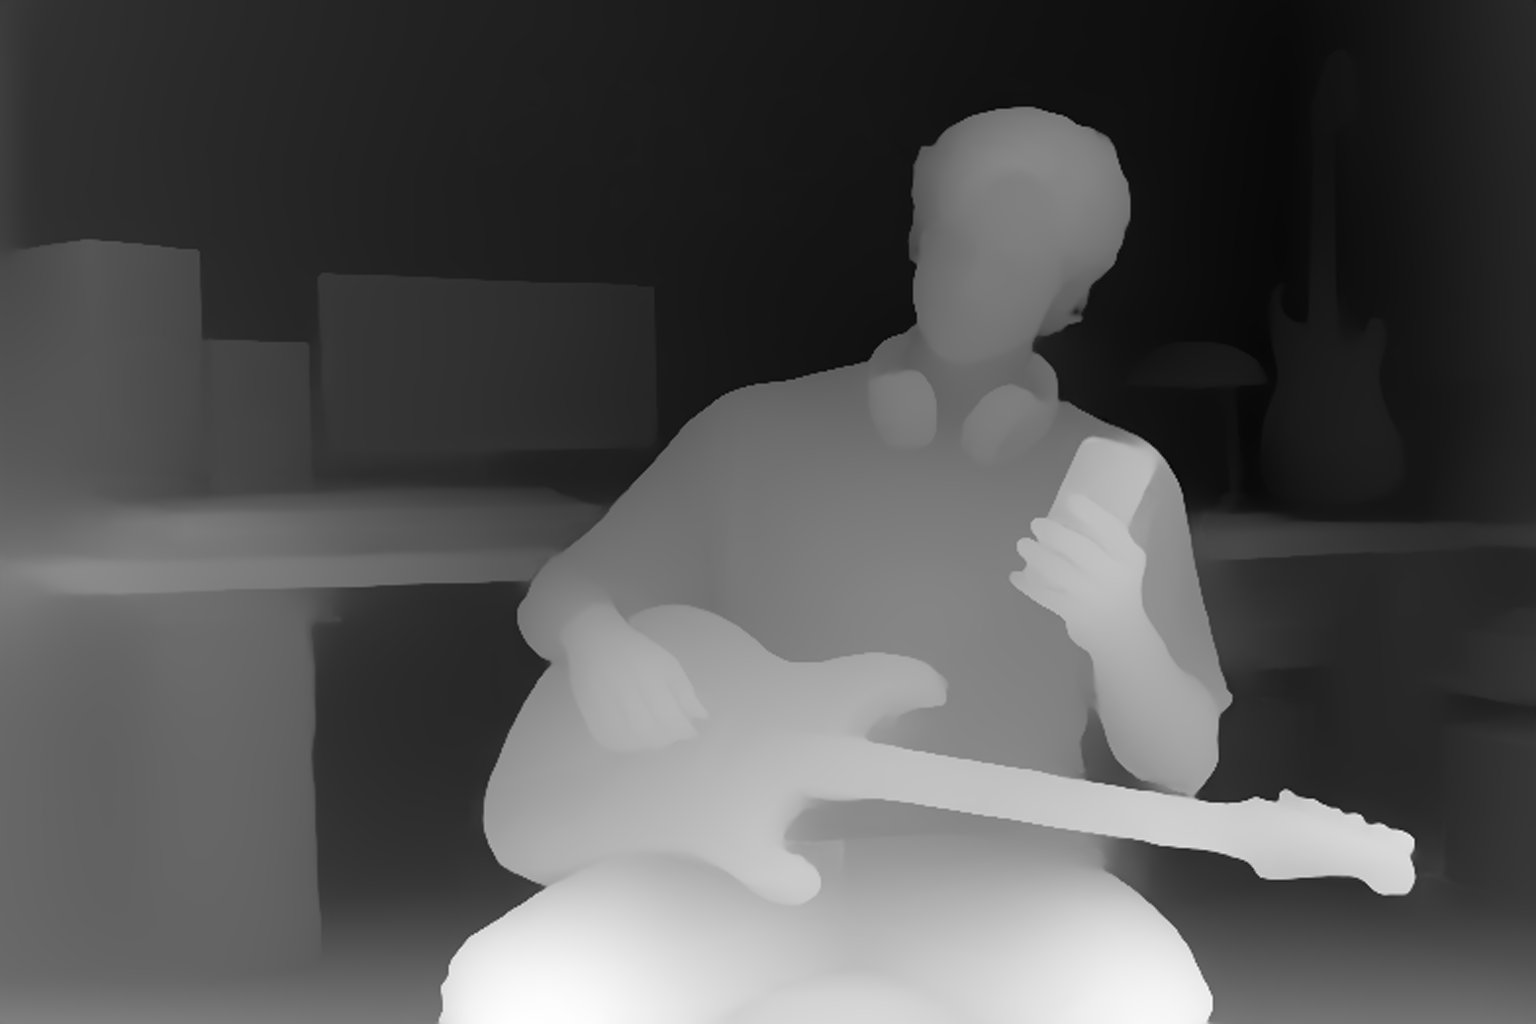
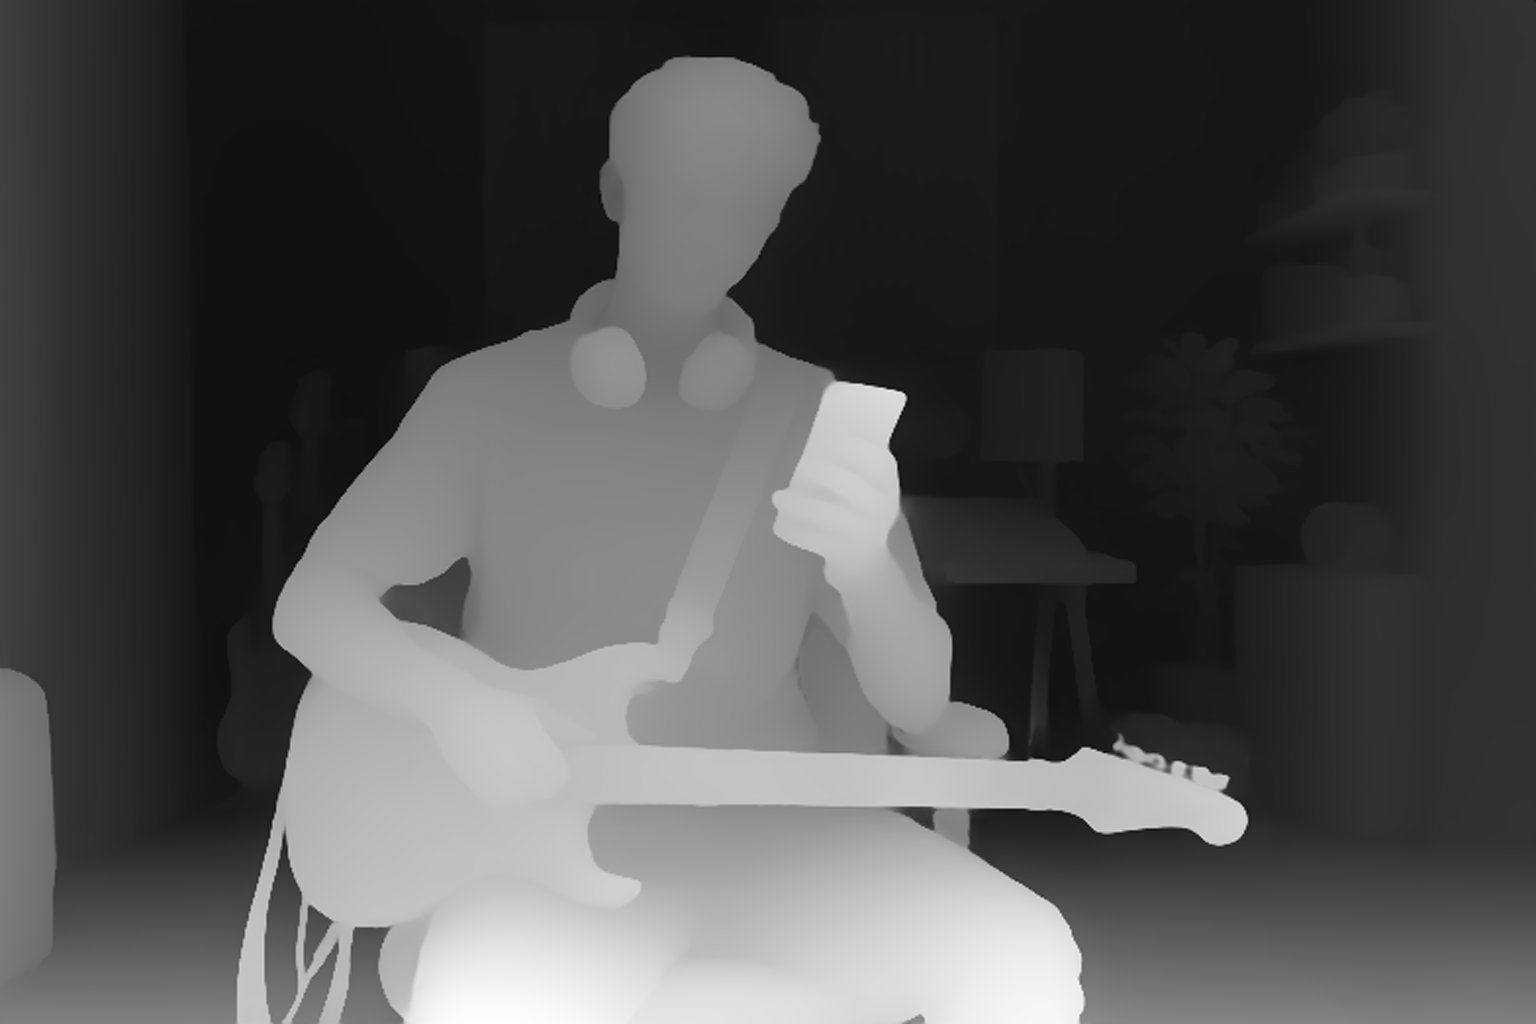
Splash v2 from client feedback: real home studio, photoreal model, sign on the left
- New plates: warm home studio after the client's reference, a photoreal model holding
  the guitar upright on a strap (v1 plates archived)
- Sign moved to the bare upper-left wall so it is never hidden behind him; brand red
  letters with a warm LED halo, and the preloader lockup turns red on its way there
- Light beats re-derived for the new room: LED strip first, then the spots
- Strings re-calibrated to the new fretboard; silver at rest, brand gold while ringing
- Chat anchored bottom-left so the sign stays clear
- Recorded guitar support: drop files + manifest.json in public/audio/guitar, synth
  stays as the fallback

diff --git a/src/components/sections/Session/PhotoStudio.tsx b/src/components/sections/Session/PhotoStudio.tsx
@@ -10,7 +10,14 @@ import { Line, useTexture } from "@react-three/drei";
 import * as THREE from "three";
 import type { Line2, LineSegments2 } from "three-stdlib";
 import { onPluck, playRiff, pluck, sampleAudio, unlockAudio } from "./audio";
-import { coverFit, dismissGuitarHint, session, SIGN_WORDMARK } from "./state";
+import {
+  coverFit,
+  dismissGuitarHint,
+  HERO_CENTER_X as HERO_CENTER_X_SHARED,
+  HERO_PHONE as HERO_PHONE_PX,
+  session,
+  SIGN_WORDMARK,
+} from "./state";
 
 const TAN = "#e7b47e";
 const IMG = { w: 1536, h: 1024 };
@@ -18,14 +25,17 @@ const IMG = { w: 1536, h: 1024 };
 // ---------------------------------------------------------------------------
 // Calibration (pixels in the 1536×1024 plates)
 // ---------------------------------------------------------------------------
-/** Six strings on 03-A-hero.png, low E (top) → high E, bridge → nut */
+/** Six strings on 03-A-hero.png, low E (top) → high E, bridge saddles → nut (measured from the fretboard) */
 const STRINGS = Array.from({ length: 6 }, (_, i) => ({
-  a: [700, 716 + i * 9.2] as [number, number],
-  b: [1290, 789 + i * 9.6] as [number, number],
+  a: [392, 743 + i * 10.8] as [number, number],
+  b: [1037, 763 + i * 7.8] as [number, number],
 }));
-const GUITAR_BODY = { x: 560, y: 640, w: 360, h: 250 };
-const HERO_PHONE = [1080, 515] as const;
-const HERO_CHEST = [900, 560] as const;
+const GUITAR_BODY = { x: 290, y: 650, w: 330, h: 260 };
+const HERO_PHONE = [HERO_PHONE_PX.x, HERO_PHONE_PX.y] as const;
+const HERO_CHEST = [680, 560] as const;
+/** Strings at rest read as bright silver; a plucked string flares to brand gold */
+const STRING_REST = new THREE.Color("#e9e6df");
+const STRING_LIT = new THREE.Color(TAN).multiplyScalar(1.5);
 
 /** Pointer pan, as a whole-frame camera drift (uv units at full deflection = PAN * (PAN_DEPTH - 0.5)) */
 const PAN = 0.05;
@@ -57,7 +67,7 @@ function useCover(centerX = 0.5) {
   const shift = THREE.MathUtils.clamp((0.5 - centerX) * w, -maxShift, maxShift);
   return { w, h, s, shift };
 }
-const HERO_CENTER_X = 0.6;
+const HERO_CENTER_X = HERO_CENTER_X_SHARED;
 
 // ---------------------------------------------------------------------------
 // Plate shader
@@ -261,7 +271,7 @@ function Studio() {
 }
 
 // ---------------------------------------------------------------------------
-// Playable strings drawn over the photo's strings (invisible at rest)
+// Playable strings drawn over the photo's strings: silver at rest, gold while ringing
 // ---------------------------------------------------------------------------
 const SEGMENTS = 40;
 /** The whole plate pans as one: strings use the same flat depth so they stay glued to the photo */
@@ -317,14 +327,15 @@ function Strings() {
     const pv = par.current.copy(frame.parallax).multiplyScalar(STRING_PARALLAX * (STRING_DEPTH - 0.5));
     g.scale.set(z, z, 1);
     g.position.set(shift + focusWorld[0] * (1 - z) - pv.x * w, focusWorld[1] * (1 - z) - pv.y * h, 0);
-    const visible = 1;
-
     for (let i = 0; i < 6; i++) {
       const line = lines.current[i];
       if (!line) continue;
       const e = energy.current[i];
-      const mat = line.material as THREE.Material & { opacity: number };
-      mat.opacity = Math.min(1, e * 2.5) * visible;
+      const glow = Math.min(1, e * 2.5);
+      const mat = line.material as THREE.Material & { opacity: number; color: THREE.Color; linewidth: number };
+      mat.opacity = 0.55 + 0.45 * glow;
+      mat.color.copy(STRING_REST).lerp(STRING_LIT, glow);
+      mat.linewidth = (1.1 - i * 0.08) * (1 + glow * 0.8);
       if (e < 0.004) continue;
       age.current[i] += dt;
       energy.current[i] = e * Math.exp(-dt * 2.6);
@@ -373,10 +384,10 @@ function Strings() {
             lines.current[i] = el;
           }}
           points={s.points}
-          color={new THREE.Color(TAN).multiplyScalar(1.6)}
-          lineWidth={1.6 - i * 0.12}
+          color={STRING_REST}
+          lineWidth={1.1 - i * 0.08}
           transparent
-          opacity={0}
+          opacity={0.55}
           frustumCulled={false}
           material-toneMapped={false}
           renderOrder={2}

diff --git a/src/components/sections/Session/audio.ts b/src/components/sections/Session/audio.ts
@@ -1,7 +1,7 @@
 "use client";
 
-// Plucked-string synth (Karplus-Strong) + analyser. No audio files needed: every note is
-// generated from a noise burst run through a tuned delay line, which is how a real string behaves.
+// Guitar audio. Uses real recordings when they are present in /public/audio/guitar/ (see SAMPLE_FILES),
+// and falls back to a plucked-string synth (Karplus-Strong) for anything that is missing.
 
 /** Open strings, low E → high E */
 export const STRING_FREQS = [82.41, 110, 146.83, 196, 246.94, 329.63];
@@ -13,6 +13,34 @@ let master: GainNode | null = null;
 let analyser: AnalyserNode | null = null;
 let muted = false;
 let riffing = false;
+
+/**
+ * Drop real recordings here (mp3/ogg/wav, short, dry, normalised) and list them in
+ * /public/audio/guitar/manifest.json as { "strings": ["0.mp3", …6 files, low E → high E], "riff": "riff.mp3" }.
+ */
+const SAMPLE_DIR = "/audio/guitar/";
+const samples: { strings: (AudioBuffer | null)[]; riff: AudioBuffer | null } = { strings: [], riff: null };
+let samplesRequested = false;
+
+async function loadSamples() {
+  if (samplesRequested || !ctx) return;
+  samplesRequested = true;
+  try {
+    const res = await fetch(SAMPLE_DIR + "manifest.json");
+    if (!res.ok) return; // no recordings yet: keep the synth
+    const manifest = (await res.json()) as { strings?: string[]; riff?: string };
+    const decode = async (file?: string) => {
+      if (!file || !ctx) return null;
+      const r = await fetch(SAMPLE_DIR + file);
+      return r.ok ? ctx.decodeAudioData(await r.arrayBuffer()) : null;
+    };
+    const [riff, ...strings] = await Promise.all([decode(manifest.riff), ...(manifest.strings ?? []).map(decode)]);
+    samples.riff = riff;
+    samples.strings = strings;
+  } catch {
+    // a broken file just means that note stays synthesised
+  }
+}
 
 const listeners = new Set<PluckListener>();
 const muteListeners = new Set<(muted: boolean) => void>();
@@ -42,6 +70,7 @@ export function unlockAudio() {
     master.connect(warmth).connect(analyser).connect(ctx.destination);
   }
   if (ctx.state === "suspended") void ctx.resume();
+  void loadSamples();
 }
 
 export function isMuted() {
@@ -128,8 +157,20 @@ function playNote(freq: number, when: number, velocity: number) {
 
 /** Pluck one open string (fret shifts the pitch in semitones). The string still vibrates when silent. */
 export function pluck(string: number, velocity = 1, fret = 0) {
-  if (ctx) playNote(STRING_FREQS[string] * 2 ** (fret / 12), 0, velocity);
+  const recorded = fret === 0 ? samples.strings[string] : null;
+  if (recorded) playBuffer(recorded, 0.9 * velocity);
+  else if (ctx) playNote(STRING_FREQS[string] * 2 ** (fret / 12), 0, velocity);
   emit(string);
+}
+
+function playBuffer(buffer: AudioBuffer, gainValue: number) {
+  if (!ctx || !master || !running()) return;
+  const src = ctx.createBufferSource();
+  src.buffer = buffer;
+  const gain = ctx.createGain();
+  gain.gain.value = gainValue;
+  src.connect(gain).connect(master);
+  src.start();
 }
 
 /** A short fingerpicked E-minor phrase that ends in a strum. */
@@ -137,6 +178,17 @@ export function playRiff() {
   if (riffing) return;
   unlockAudio();
   riffing = true;
+
+  // A recorded riff wins; the strings still shimmer along with it.
+  if (samples.riff && running()) {
+    playBuffer(samples.riff, 0.9);
+    const ms = samples.riff.duration * 1000;
+    for (let t = 0; t < ms - 200; t += 140) window.setTimeout(() => emit((t / 140) % 6 | 0), t);
+    window.setTimeout(() => {
+      riffing = false;
+    }, ms);
+    return;
+  }
 
   const step = 0.14;
   const pattern: [string: number, fret: number][] = [

diff --git a/src/components/sections/Session/state.ts b/src/components/sections/Session/state.ts
@@ -61,11 +61,11 @@ export function requestAutoPlay() {
 // ---------------------------------------------------------------------------
 export const PLATE = { w: 1536, h: 1024 };
 /** Image x (0–1) kept in view when a narrow screen crops the plate */
-export const HERO_CENTER_X = 0.6;
+export const HERO_CENTER_X = 0.5;
 /** Wall sign on the hero/clean plate, in plate pixels: the "auvox" wordmark box */
-export const SIGN_WORDMARK = { x: 505, y: 113, w: 448, h: 105 };
+export const SIGN_WORDMARK = { x: 200, y: 128, w: 270, h: 63 };
 /** Phone screen centre on the hero plate, in plate pixels */
-export const HERO_PHONE = { x: 1080, y: 515 };
+export const HERO_PHONE = { x: 850, y: 428 };
 
 /** Cover-fit of the plate inside a viewport: plate size in px and the horizontal shift that keeps `centerX` visible. */
 export function coverFit(vw: number, vh: number, centerX = HERO_CENTER_X) {

diff --git a/src/components/preloader/Preloader.tsx b/src/components/preloader/Preloader.tsx
@@ -13,6 +13,7 @@ const ONCE_PER_SESSION = false;
 const SESSION_KEY = "auvox:preloader-seen";
 
 const TAN = "#e7b47e";
+const RED = "#850909";
 const PEARL = "#f1ede9";
 const BLACK = "#000000";
 
@@ -243,6 +244,8 @@ export default function Preloader() {
             };
           };
           gsap.set(stage, { transformOrigin: `${(W * unit) / 2}px ${(WORDMARK.height * unit) / 2}px` });
+          // the sign on the wall is brand red, so the lockup takes that colour on the way
+          gsap.to(stage, { color: RED, duration: 1.1, ease: "power2.inOut", delay: 0.15 });
           const flight = { t: 0 };
           gsap.to(flight, {
             t: 1,

diff --git a/src/components/sections/Session/ChatOverlay.tsx b/src/components/sections/Session/ChatOverlay.tsx
@@ -115,7 +115,7 @@ export default function ChatOverlay() {
       {stage !== "idle" && (
         <div
           ref={panel}
-          className="absolute z-20 flex flex-col gap-3 text-pearl max-md:inset-x-4 max-md:bottom-24 md:top-1/2 md:left-[6vw] md:w-[min(440px,42vw)] md:-translate-y-1/2"
+          className="absolute z-20 flex flex-col gap-3 text-pearl max-md:inset-x-4 max-md:bottom-24 md:bottom-[9vh] md:left-[5vw] md:w-[min(440px,40vw)]"
           style={{ animation: "bubble-in 0.6s cubic-bezier(0.2,0.9,0.3,1.1)" }}
         >
           {LINES.slice(0, shown).map((line, i) => (

diff --git a/scripts/sign.py b/scripts/sign.py
@@ -162,13 +162,55 @@ def resign(src: Path, protect: np.ndarray | None = None) -> tuple[int, int, int,
     return tx, ty, lw, int(round(wordmark_h))
 
 
+# ---- v2 room (client feedback 2026-10-09): light greige wall, sign on the bare upper-left wall ----
+V2_X, V2_W, V2_CY = 200, 270, 160      # lockup left edge, lockup width, wordmark centre (plate px)
+RED = np.array([133, 9, 9], dtype=np.float32)
+HALO = np.array([255, 196, 130], dtype=np.float32)
+
+
+def place_backlit_sign(src: Path) -> tuple[int, int, int, int]:
+    """Writes <src>-sign.png (RGBA layer: red letters, soft shadow, warm LED halo) and <src>-signed.png (preview)."""
+    plate = np.asarray(Image.open(src).convert("RGB")).astype(np.float32)
+    H, W, _ = plate.shape
+    alpha_img = render_logo(V2_W)
+    lw, lh = alpha_img.size
+    wordmark_h = lh * 303 / 446
+    tx, ty = V2_X, int(round(V2_CY - wordmark_h / 2))
+    a = np.zeros((H, W), np.float32)
+    a[ty : ty + lh, tx : tx + lw] = np.asarray(alpha_img).astype(np.float32) / 255.0
+
+    # letters: brand red, shaded a touch by the wall's own light falloff
+    local = cv2.GaussianBlur(plate.mean(axis=2), (0, 0), 30)
+    shade = np.clip(local / max(local[ty : ty + lh, tx : tx + lw].mean(), 1), 0.8, 1.15)[..., None]
+    letters = RED[None, None, :] * shade
+    # halo: the letters stand off the wall with a warm LED behind them, like the slat panels
+    halo = cv2.GaussianBlur(a, (0, 0), 16) * 0.55 + cv2.GaussianBlur(a, (0, 0), 5) * 0.35
+    shadow = shift(cv2.GaussianBlur(a, (0, 0), 2.5), 3, 2) * 0.35
+
+    # composite as one RGBA layer, back to front: halo (warm light) → shadow → letters
+    rgb = np.zeros((H, W, 3), np.float32)
+    al = np.zeros((H, W), np.float32)
+    for colour, amount in ((HALO, np.clip(halo, 0, 1) * 0.6), (np.zeros(3, np.float32), shadow)):
+        a_out = amount + al * (1 - amount)
+        mix = colour[None, None, :] * amount[..., None] + rgb * (al * (1 - amount))[..., None]
+        rgb = mix / np.maximum(a_out, 1e-5)[..., None]
+        al = a_out
+    a_out = a + al * (1 - a)
+    rgb = (letters * a[..., None] + rgb * (al * (1 - a))[..., None]) / np.maximum(a_out, 1e-5)[..., None]
+    al = a_out
+    layer = np.dstack([np.clip(rgb, 0, 255), np.clip(al * 255, 0, 255)]).astype(np.uint8)
+    Image.fromarray(layer, "RGBA").save(src.with_name(src.stem + "-sign.png"))
+
+    preview = plate * (1 - al[..., None]) + rgb * al[..., None]
+    Image.fromarray(np.clip(preview, 0, 255).astype(np.uint8)).save(src.with_name(src.stem + "-signed.png"))
+    print("✓", src.stem + "-sign.png,", src.stem + "-signed.png")
+    return tx, ty, lw, int(round(wordmark_h))
+
+
 def main() -> None:
-    tx, ty, lw, wh = resign(FINAL / "02-B-clean-plate.png")
-    mask_path = FINAL / "layers" / "hero-cutout-mask.png"
-    protect = np.asarray(Image.open(mask_path).convert("L")).astype(np.float32) / 255.0 if mask_path.exists() else None
-    resign(FINAL / "03-A-hero.png", protect)
+    tx, ty, lw, wh = place_backlit_sign(FINAL / "03-A-hero.png")
     print(f"SIGN_WORDMARK = {{ x: {tx}, y: {ty}, w: {lw}, h: {wh} }}")
-    Image.open(FINAL / "03-A-hero.png").crop((380, 60, 1080, 320)).save(FINAL / "layers" / "sign-preview.png")
+    Image.open(FINAL / "03-A-hero-signed.png").crop((120, 40, 620, 300)).save(FINAL / "layers" / "sign-preview.png")
 
 
 if __name__ == "__main__":

diff --git a/scripts/plates.py b/scripts/plates.py
@@ -54,18 +54,19 @@ def cutout(image: Image.Image) -> None:
 
 
 def light_masks(image: Image.Image) -> None:
+    """Two light beats for the intro: mask-red = the warm LED strip glow, mask-lamp = the spotlit highlights."""
     rgb = np.asarray(image.convert("RGB")).astype(np.float32) / 255.0
     r, g, b = rgb[..., 0], rgb[..., 1], rgb[..., 2]
     lum = 0.2126 * r + 0.7152 * g + 0.0722 * b
 
-    # red wall: red clearly dominant over green/blue, not too dark
-    red = np.clip((r - np.maximum(g, b) - 0.08) * 4.0, 0, 1) * np.clip((lum - 0.05) * 6, 0, 1)
-    Image.fromarray((red * 255).astype(np.uint8)).filter(ImageFilter.GaussianBlur(18)).save(OUT / "mask-red.png")
+    # LED strip: bright and warm, spread into a glow
+    led = np.clip((lum - 0.5) * 3.0, 0, 1) * np.clip((r - b) * 4.0, 0, 1)
+    Image.fromarray((led * 255).astype(np.uint8)).filter(ImageFilter.GaussianBlur(30)).save(OUT / "mask-red.png")
 
-    # lamp: the brightest warm highlights, spread out into a glow
-    warm = np.clip((lum - 0.55) * 3.0, 0, 1) * np.clip((r - b) * 3.0, 0, 1)
-    Image.fromarray((warm * 255).astype(np.uint8)).filter(ImageFilter.GaussianBlur(40)).save(OUT / "mask-lamp.png")
-    print("✓ mask-red.png, mask-lamp.png")
+    # spotlights / general: everything reasonably lit, softly
+    lit = np.clip((lum - 0.22) / 0.45, 0, 1)
+    Image.fromarray((lit * 255).astype(np.uint8)).filter(ImageFilter.GaussianBlur(22)).save(OUT / "mask-lamp.png")
+    print("✓ mask-red.png (LED), mask-lamp.png (spots)")
 
 
 def main() -> None:
@@ -83,8 +84,7 @@ def main() -> None:
     closeup_path = FINAL / "04-D-phone-closeup.png"
     if closeup_path.exists():
         depth(Image.open(closeup_path).convert("RGB"), "closeup-depth.png")
-    cutout(hero)
-    light_masks(clean)
+    light_masks(hero)
 
 
 if __name__ == "__main__":

diff --git a/scripts/export-scene.py b/scripts/export-scene.py
@@ -27,13 +27,8 @@ def webp_alpha(src: Path, name: str, quality: int = 90) -> None:
     print("✓", name, f"{(OUT / name).stat().st_size // 1024} KB")
 
 
-jpg(FINAL / "02-B-clean-plate.png", "clean.jpg")
-jpg(FINAL / "03-A-hero-nosign.png", "hero.jpg")  # bare wall: the sign arrives with the preloader
+jpg(FINAL / "03-A-hero.png", "hero.jpg")  # bare wall: the sign arrives with the preloader
 webp_alpha(FINAL / "03-A-hero-sign.png", "sign.webp")
-jpg(FINAL / "04-D-phone-closeup.png", "closeup.jpg")
-jpg(FINAL / "08-A-hero-mobile.png", "hero-mobile.jpg")
-jpg(LAYERS / "clean-depth.png", "clean-depth.jpg", 85, grayscale=True)
 jpg(LAYERS / "hero-depth.png", "hero-depth.jpg", 85, grayscale=True)
-jpg(LAYERS / "closeup-depth.png", "closeup-depth.jpg", 85, grayscale=True)
 jpg(LAYERS / "mask-red.png", "mask-red.jpg", 80, grayscale=True)
 jpg(LAYERS / "mask-lamp.png", "mask-lamp.jpg", 80, grayscale=True)

diff --git a/public/audio/guitar/README.md b/public/audio/guitar/README.md
@@ -1,0 +1,14 @@
+# Guitar recordings
+
+The splash scene plays real recordings from this folder when they exist, and falls back to a synth otherwise.
+
+1. Add short, dry, normalised files (mp3 or ogg, ~2–3 s for single notes):
+   - six open strings, low E → high E
+   - one riff/strum (a few seconds) for the tap on the guitar body
+2. Create `manifest.json` here:
+
+```json
+{ "strings": ["e2.mp3", "a2.mp3", "d3.mp3", "g3.mp3", "b3.mp3", "e4.mp3"], "riff": "riff.mp3" }
+```
+
+Until `manifest.json` exists, nothing is loaded and the synth is used.
